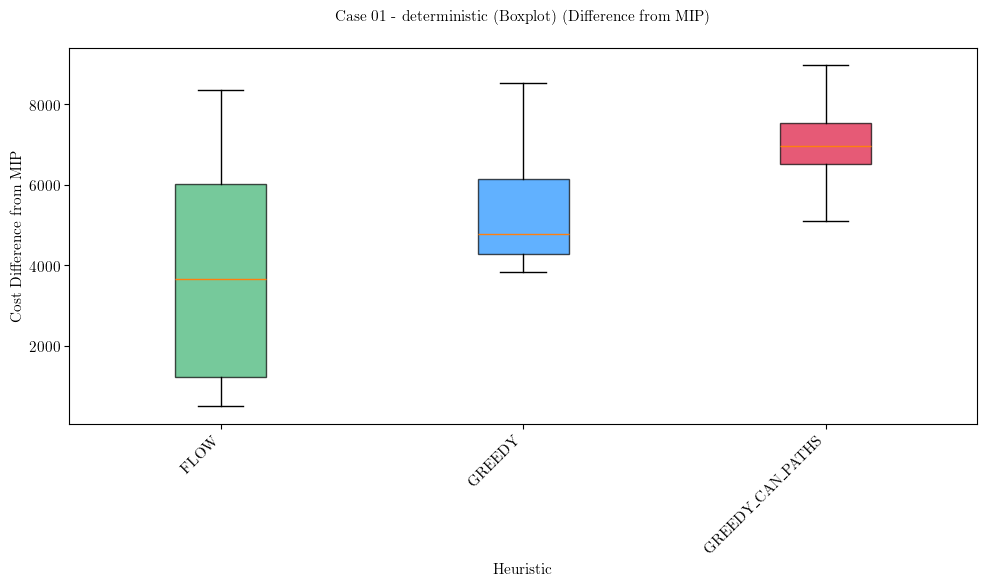
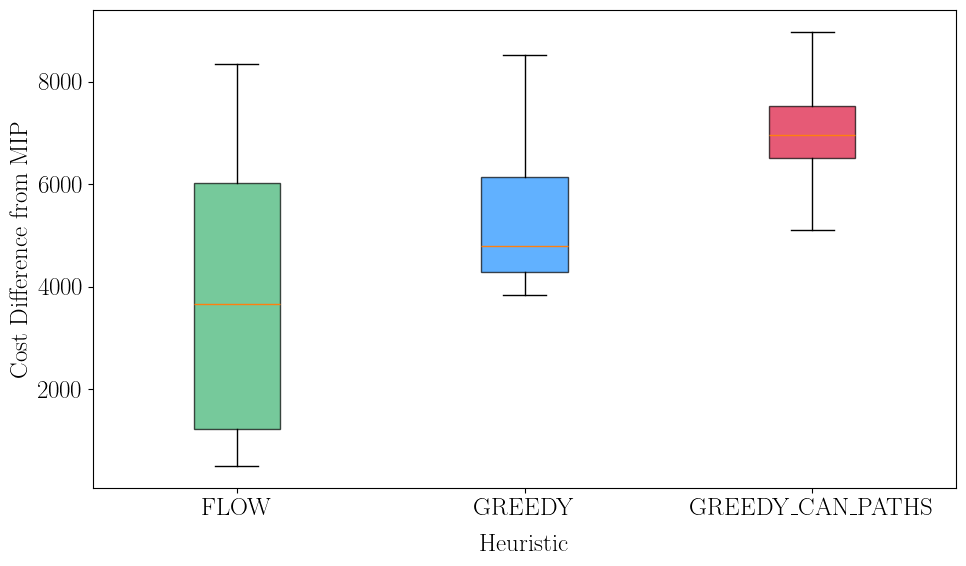
Prepare boxplots for report

diff --git a/scripts/plot.py b/scripts/plot.py
@@ -14,7 +14,7 @@ import re
 os.environ["PATH"] += os.pathsep + '/usr/local/texlive/2024/bin/x86_64-linux'
 
 # Directories involved
-RESULTS_BASE_DIR = "../results/notable/06_07_DIFF_tmp"
+RESULTS_BASE_DIR = "../results/notable/06_07"
 SUBFOLDERS = ["deterministic", "real_time"]
 
 # Plot settings
@@ -385,29 +385,24 @@ def create_boxplots(file_ending: str, subtract_mip: bool = False):
                     box.set_facecolor(COLOR_LIST[color_idx % len(COLOR_LIST)])
                     box.set_alpha(0.7)
 
-                plt.xlabel('Heuristic')
+                plt.xlabel('Heuristic', labelpad=10)
 
                 # Determine plot type and ylabel
                 if file_ending == '_result.txt':
                     plot_type_folder = 'objective_value'
                     if subtract_mip:
                         ylabel = 'Cost Difference from MIP'
-                        title_suffix = ' (Difference from MIP)'
                     else:
                         ylabel = 'Cost'
-                        title_suffix = ''
                 elif file_ending == '_running_time.txt':
                     plot_type_folder = 'running_time'
                     if subtract_mip:
                         ylabel = 'Running Time Difference from MIP (s)'
-                        title_suffix = ' (Difference from MIP)'
                     else:
                         ylabel = 'Running Time (s)'
-                        title_suffix = ''
 
                 plt.ylabel(ylabel)
-                plt.title(f'Case {case} - {subfolder} (Boxplot){title_suffix}', pad=20)
-                plt.xticks(rotation=45, ha='right')
+                plt.xticks()
                 plt.tight_layout()
 
                 # Create subfolder for boxplots
@@ -562,13 +557,13 @@ def create_barcharts(file_ending: str):
 
 
 if __name__ == '__main__':
-    plot('_result.txt')
-    create_combined_plots('_result.txt')
+    # plot('_result.txt')
+    # create_combined_plots('_result.txt')
     # plot('_running_time.txt')
     # create_combined_plots('_running_time.txt')
-    # create_boxplots('_running_time.txt')
-    # create_boxplots('_result.txt')
-    # create_boxplots('_running_time.txt', subtract_mip=True)
-    # create_boxplots('_result.txt', subtract_mip=True)
+    create_boxplots('_running_time.txt')
+    create_boxplots('_result.txt')
+    create_boxplots('_running_time.txt', subtract_mip=True)
+    create_boxplots('_result.txt', subtract_mip=True)
     # create_barcharts('_result.txt')
     # create_barcharts('_running_time.txt')
